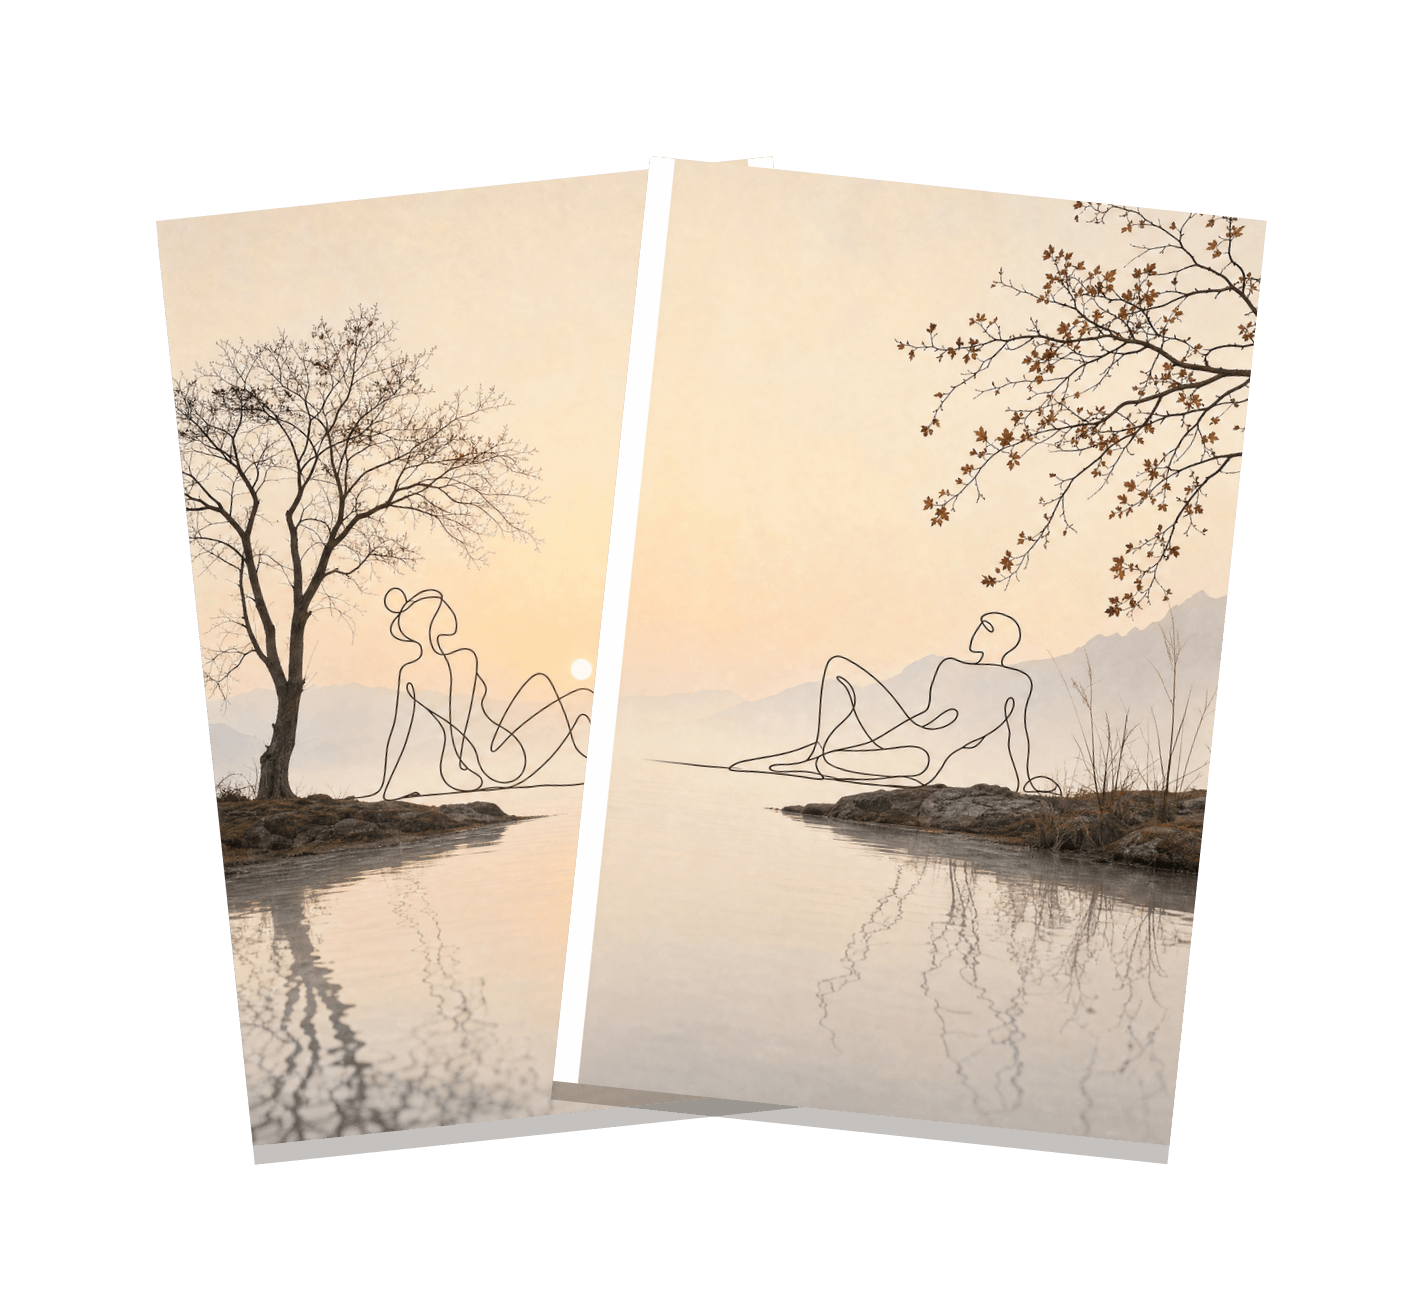
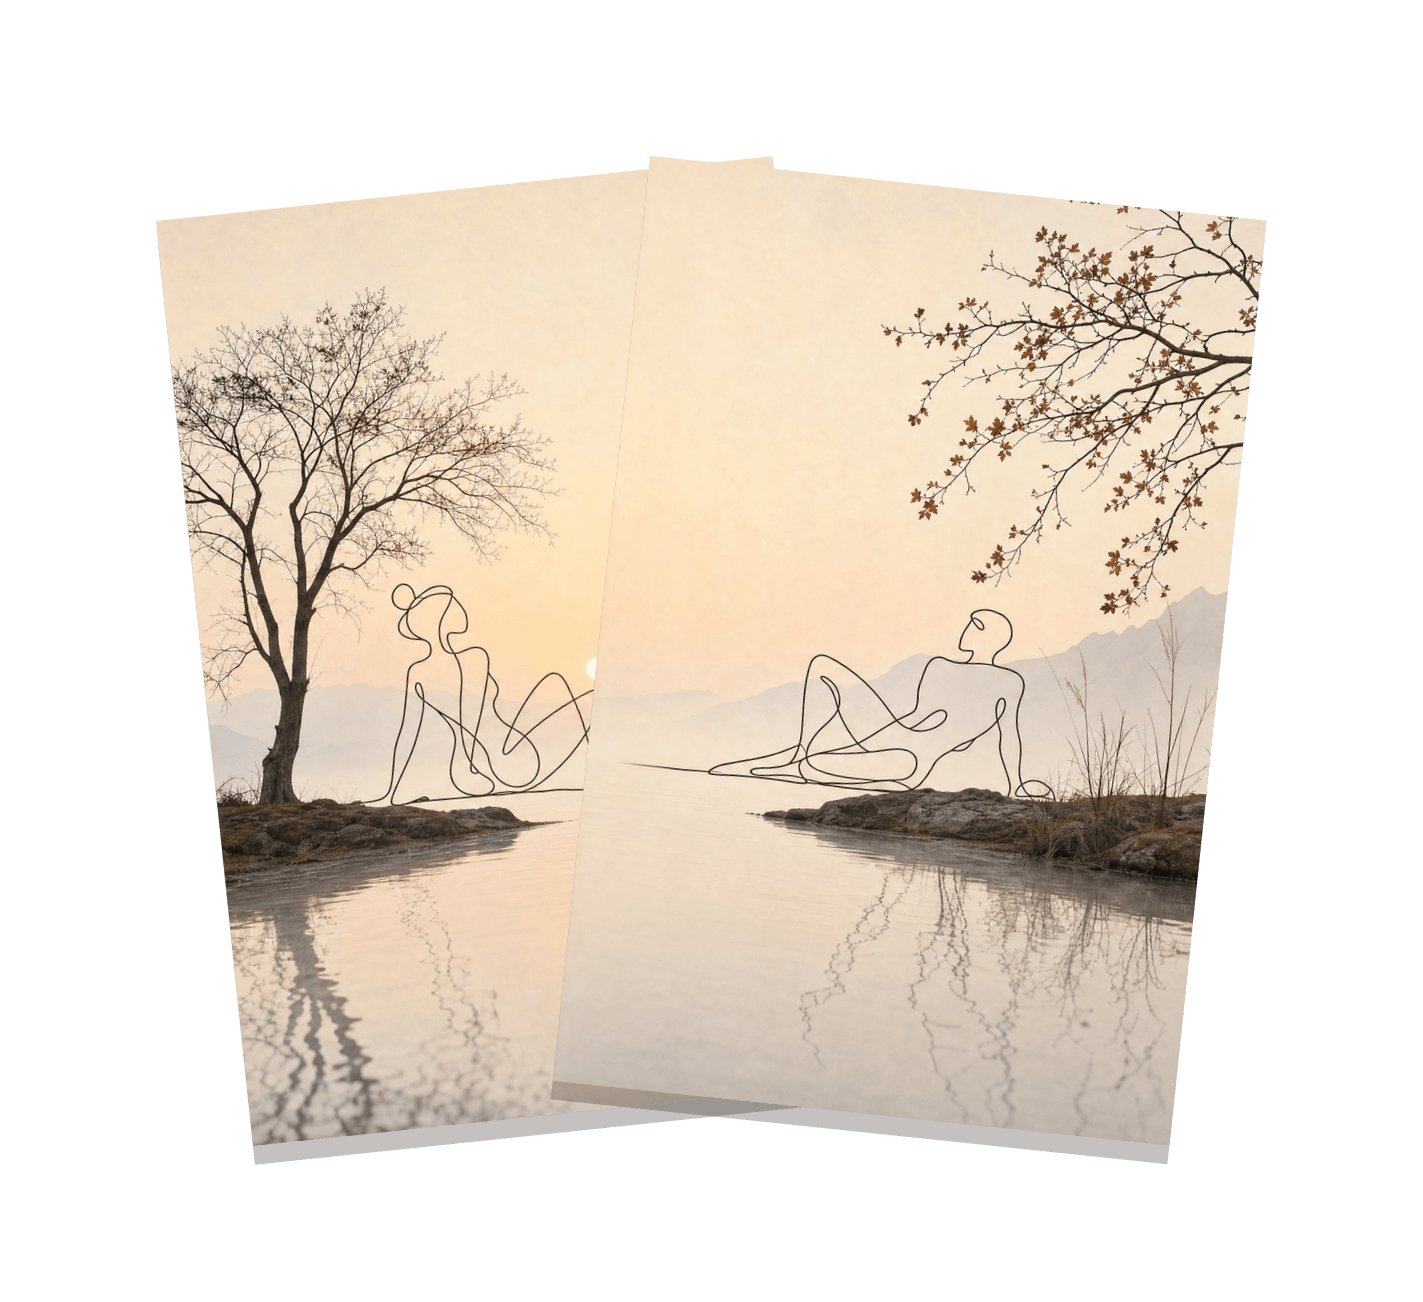
fix(dyptyk): lokalna naprawa bialego paska w Reclining Line Pair, bez AI
Prompt AI (galleryInteriorAI.js) dostal jawny zakaz maty/pase-partout
w zdjeciach salonu zestawow sciennych (uzytkownik zglosil widoczna mate
w Garden Study i Sacred Lines Wall Set) — po trzech kolejno mocniejszych
wersjach promptu model nadal ja dorysowywal, to twardy bias treningowy,
ktorego nie przebija sie tekstem. Prompt zostaje (moze pomoc czesciowo),
ale docelowym rozwiazaniem tego watku jest lokalne kompozytowanie, nie
kolejne prompt-inzynierowanie.

Audyt wzrokowy wszystkich 33 zdjec salonu (kind:'gallery') pokazal, ze
problem NIE jest systemowy — 31/33 czyste. Uzytkownik usunal Garden
Study, zaakceptowal Sacred Lines takim jak jest.

Osobny problem tego samego rodzaju w Reclining Line Pair (dyptyk,
kind:'set') — ale tu bialy pasek jest WYPALONY W PLIKACH DO DRUKU
(panel1/panel2.png), nie tylko w mockupie. AI-regeneracja tego zestawu
jest ryzykowna (temat: nagie postacie w line-art) — druga proba
odrzucona przez filtr bezpieczenstwa OpenAI (safety_violations=[sexual]),
a pierwsza wersja nadpisala master.png nieudanym wynikiem niespojnym
z panelami; przywrocone przez sklejenie starych, nietknietych paneli.

Zamiast dalszych prob AI: scripts/naprawBialyPasekLokalnie.js wycina
wykryty bialy pasek (potwierdzone puste tlo, > 92% bieli na kazdej
kolumnie) bezposrednio z mastera, dzieli na nowo w nowym srodku i
przebudowuje PDF-y oraz wszystkie 5 wizualizacji z nowych paneli — w
pelni deterministyczne, zero kosztu i ryzyka AI. Audyt potwierdza:
[…]

diff --git a/scripts/naprawBialyPasekLokalnie.js b/scripts/naprawBialyPasekLokalnie.js
@@ -1,0 +1,194 @@
+/**
+ * Lokalna (bez AI) naprawa wypalonego bialego paska na linii ciecia dyptyku/
+ * tryptyku (kind:'set') — patrz scripts/audytBialychPaskow.js.
+ *
+ * AI-regeneracja jest tu ryzykowna (koszt, czas, a dla tresci graniczacych
+ * z bezpieczenstwem tresci — realne ryzyko odrzucenia przez filtr, jak przy
+ * Reclining Line Pair, temat: nagie postacie w line-art). Zamiast tego:
+ * wycina sam wykryty bialy pasek z mastera (to potwierdzone puste tlo, nie
+ * tresc), skleja obie polowki, dzieli na nowo w nowym srodku, i przebudowuje
+ * PDF-y oraz wszystkie 5 wizualizacji z NOWYCH paneli. W pelni deterministyczne.
+ *
+ *   node scripts/naprawBialyPasekLokalnie.js --tytul "Reclining Line Pair"
+ */
+
+'use strict';
+
+require('dotenv').config({ quiet: true });
+const fs = require('fs');
+const path = require('path');
+const sharp = require('sharp');
+
+const PdfGenerator = require('../src/pdfGenerator');
+const {
+  buildSetThumbnail,
+  buildSetPackshot,
+  buildSetInterior,
+  buildSetSheets,
+  buildSetStack,
+} = require('../src/posterSetVisuals');
+
+const ROOT = path.join(__dirname, '..');
+const INVENTORY = path.join(ROOT, 'posters_inventory.json');
+
+function arg(nazwa) {
+  const i = process.argv.indexOf(`--${nazwa}`);
+  return i >= 0 ? process.argv[i + 1] : null;
+}
+
+(async () => {
+  const tytul = arg('tytul');
+  if (!tytul) throw new Error('Uzycie: --tytul "..."');
+
+  const inv = JSON.parse(fs.readFileSync(INVENTORY, 'utf8'));
+  const idx = inv.posters.findIndex((p) => p.title === tytul && p.kind === 'set');
+  if (idx < 0) throw new Error('Nie znaleziono: ' + tytul);
+  const record = inv.posters[idx];
+
+  const masterAbs = path.join(ROOT, record.imagePath);
+  const outDir = path.dirname(masterAbs);
+  const base = path.basename(record.imagePath, path.extname(record.imagePath));
+
+  const meta = await sharp(masterAbs).metadata();
+  console.log('Master: ' + meta.width + 'x' + meta.height);
+
+  // Znajdz najdluzszy ciagly pas niemal-bialych kolumn wokol kazdej linii
+  // ciecia (ta sama logika co audytBialychPaskow.js), potem go WYTNIJ.
+  const layout = record.layout === 'tryptyk' ? { cols: 3 } : { cols: 2 };
+  const panelWNominal = Math.floor(meta.width / layout.cols);
+  const WHITE_THRESHOLD = 245;
+  const COLUMN_WHITE_FRACTION = 0.92;
+
+  async function columnWhiteFractions(left, width) {
+    const { data, info } = await sharp(masterAbs)
+      .extract({ left, top: 0, width, height: meta.height })
+      .flatten({ background: '#ffffff' })
+      .raw()
+      .toBuffer({ resolveWithObject: true });
+    const fracs = new Array(info.width).fill(0);
+    for (let x = 0; x < info.width; x++) {
+      let white = 0;
+      for (let y = 0; y < info.height; y++) {
+        const i = (y * info.width + x) * info.channels;
+        if (data[i] >= WHITE_THRESHOLD && data[i + 1] >= WHITE_THRESHOLD && data[i + 2] >= WHITE_THRESHOLD) white++;
+      }
+      fracs[x] = white / info.height;
+    }
+    return fracs;
+  }
+
+  function longestRun(fracs) {
+    let best = 0, cur = 0, bestStart = -1, curStart = -1;
+    for (let x = 0; x < fracs.length; x++) {
+      if (fracs[x] >= COLUMN_WHITE_FRACTION) {
+        if (cur === 0) curStart = x;
+        cur += 1;
+        if (cur > best) { best = cur; bestStart = curStart; }
+      } else cur = 0;
+    }
+    return { width: best, start: bestStart };
+  }
+
+  const strips = []; // { cutX, start, width } posortowane malejaco wg left, do wycinania od prawej do lewej
+  for (let c = 1; c < layout.cols; c++) {
+    const cutX = c * panelWNominal;
+    const win = Math.round(panelWNominal * 0.18);
+    const left = Math.max(0, cutX - win);
+    const width = Math.min(2 * win, meta.width - left);
+    const fracs = await columnWhiteFractions(left, width);
+    const run = longestRun(fracs);
+    if (run.width < 20) throw new Error('Brak wykrywalnego bialego paska przy ciecu x=' + cutX + ' — nic do wyciecia.');
+    strips.push({ cutX, start: left + run.start, width: run.width });
+  }
+  console.log('Wykryte paski do wyciecia: ' + JSON.stringify(strips));
+
+  // Wytnij paski OD PRAWEJ DO LEWEJ, zeby wczesniejsze wyciecia nie przesunely
+  // wspolrzednych kolejnych.
+  strips.sort((a, b) => b.start - a.start);
+  let img = sharp(masterAbs);
+  let buf = await img.toBuffer();
+  for (const s of strips) {
+    const m = await sharp(buf).metadata();
+    const left = sharp(buf).extract({ left: 0, top: 0, width: s.start, height: m.height });
+    const right = sharp(buf).extract({ left: s.start + s.width, top: 0, width: m.width - (s.start + s.width), height: m.height });
+    const leftBuf = await left.toBuffer();
+    const rightBuf = await right.toBuffer();
+    const newW = s.start + (m.width - (s.start + s.width));
+    buf = await sharp({ create: { width: newW, height: m.height, channels: 3, background: '#ffffff' } })
+      .composite([{ input: leftBuf, left: 0, top: 0 }, { input: rightBuf, left: s.start, top: 0 }])
+      .png()
+      .toBuffer();
+  }
+
+  const finalMeta = await sharp(buf).metadata();
+  console.log('Nowy master (bez paskow): ' + finalMeta.width + 'x' + finalMeta.height);
+  await sharp(buf).png().toFile(masterAbs);
+
+  // Podziel na nowo, w nowym (rownym) srodku.
+  const newPanelW = Math.floor(finalMeta.width / layout.cols);
+  const panelPaths = [];
+  for (let c = 0; c < layout.cols; c++) {
+    const left = c * newPanelW;
+    const width = c === layout.cols - 1 ? finalMeta.width - left : newPanelW;
+    const panelAbs = path.join(outDir, `${base}_panel${c + 1}.png`);
+    await sharp(masterAbs).extract({ left, top: 0, width, height: finalMeta.height }).png().toFile(panelAbs);
+    panelPaths.push(panelAbs);
+    console.log('  panel' + (c + 1) + ': ' + width + 'x' + finalMeta.height);
+  }
+
+  // Przebuduj PDF-y kazdego panelu.
+  const pdfGen = new PdfGenerator();
+  for (let i = 0; i < record.panels.length; i++) {
+    const panel = record.panels[i];
+    const panelAbs = panelPaths[i];
+    const results = await pdfGen.createMultisizePDF(panelAbs, record.title, outDir, {
+      nameInfix: `panel${panel.index}`,
+      printLayout: 'full',
+      matFrame: false,
+    });
+    const rel = {};
+    for (const [sizeKey, value] of Object.entries(results)) {
+      if (typeof value === 'string' && value.startsWith('ERROR')) continue;
+      rel[sizeKey] = path.relative(ROOT, value).replace(/\\/g, '/');
+    }
+    panel.pdfPaths = rel;
+    panel.imagePath = path.relative(ROOT, panelAbs).replace(/\\/g, '/');
+    const pm = await sharp(panelAbs).metadata();
+    panel.width = pm.width;
+    panel.height = pm.height;
+    console.log('  PDF-y panelu ' + panel.index + ': ' + Object.keys(rel).length);
+  }
+
+  // Przebuduj wszystkie 5 wizualizacji z nowych paneli.
+  const thumbAbs = path.join(outDir, `${base}_zestaw_thumb.jpg`);
+  const packAbs = path.join(outDir, `${base}_mockup_frame.png`);
+  const interiorAbs = path.join(outDir, `${base}_mockup_interior.jpg`);
+  const interior2Abs = path.join(outDir, `${base}_mockup_interior2.jpg`);
+  const sheetsAbs = path.join(outDir, `${base}_arkusze.png`);
+  const stackAbs = path.join(outDir, `${base}_kaskada.png`);
+
+  await buildSetThumbnail(panelPaths, thumbAbs);
+  await buildSetPackshot(panelPaths, packAbs);
+  await buildSetInterior(panelPaths, interiorAbs);
+  await buildSetInterior(panelPaths, interior2Abs, { secondary: true, category: record.category });
+  await buildSetSheets(panelPaths, sheetsAbs);
+  await buildSetStack(panelPaths, stackAbs);
+
+  record.imagePathThumb = path.relative(ROOT, thumbAbs).replace(/\\/g, '/');
+  record.mockups = {
+    frame: path.relative(ROOT, packAbs).replace(/\\/g, '/'),
+    interior: path.relative(ROOT, interiorAbs).replace(/\\/g, '/'),
+    interior2: path.relative(ROOT, interior2Abs).replace(/\\/g, '/'),
+    sheets: path.relative(ROOT, sheetsAbs).replace(/\\/g, '/'),
+    stack: path.relative(ROOT, stackAbs).replace(/\\/g, '/'),
+    generatedAt: new Date().toISOString(),
+  };
+
+  inv.posters[idx] = record;
+  fs.writeFileSync(INVENTORY, JSON.stringify(inv, null, 2) + '\n', 'utf8');
+  console.log('');
+  console.log('GOTOWE. Kartoteka zaktualizowana.');
+})().catch((e) => {
+  console.error('BLAD:', e.message);
+  process.exit(1);
+});

diff --git a/src/galleryInteriorAI.js b/src/galleryInteriorAI.js
@@ -123,7 +123,11 @@ function budujPrompt(pieceCount, scena, rama, zmienRame) {
   const ramaInstrukcja = zmienRame
     ? `Add a ${rama} around EACH piece individually (each print gets its own separate frame with real spacing between frames, not one shared frame).`
     : `Do not change the frame color or material (${rama}) — reproduce the frames exactly as shown.`;
-  return `Use the uploaded image as the EXACT reference for the artwork inside each of the ${pieceCount} pieces AND for their exact arrangement (whether that is one large anchor piece with smaller pieces beside it, or a wall grid of similarly-sized pieces) — do not change the artwork, the arrangement, relative sizes, or spacing between the frames. Reproduce this exact set pixel-accurately. ${ramaInstrukcja}
+  return `Do not add a mat board. Do not add a passe-partout. Do not add any cream, white, off-white or paper-colored border strip between the artwork and the inside of the frame, on any of the ${pieceCount} pieces. This single rule matters more than anything else in this brief — read it twice before generating.
+
+Most stock photos of framed prints show a wide flat-colored paper margin between the art and the frame (a "mat") — picture that look clearly, and then do the opposite. Here the print is face-mounted flush to the glass, edge-to-edge, the way a photo print or a canvas gallery wrap sits in its frame: zero gap, zero visible paper, zero border of any color. Wherever the artwork's own background happens to be light or cream-colored near its edge, that is the ARTWORK, not a mat — it must still touch the frame's inner lip directly, with no additional strip of a different, flatter tone drawn around it.
+
+Use the uploaded image as the EXACT reference for the artwork inside each of the ${pieceCount} pieces AND for their exact arrangement (whether that is one large anchor piece with smaller pieces beside it, or a wall grid of similarly-sized pieces) — do not change the artwork, the arrangement, relative sizes, or spacing between the frames. Reproduce this exact set pixel-accurately, including how tightly the print fills its frame. ${ramaInstrukcja}
 
 Photograph this exact framed arrangement hanging on a wall in a ${scena}
 
@@ -131,6 +135,7 @@ Requirements:
 - Camera straight-on, eye level, correct perspective for a wall-mounted piece — not tilted, not angled.
 - Real photograph look: natural light, soft realistic contact shadow under each frame, subtle realistic reflections on glass if any — shot with professional camera equipment, not illustrated or painted.
 - Each frame is a separate physical object with real spacing between frames (3-5 cm), not touching, not merged into one shared frame.
+- Before finishing, check each of the ${pieceCount} pieces one more time for a mat/border you may have added out of habit, and remove it if present.
 - The arrangement is centered and straight, realistically sized relative to the room (medium scale, clearly visible but not oversized).
 - No text, no logo, no watermark, no other artwork or photos on the wall.
 - Photorealistic result suitable for a Shopify product image gallery.`;
